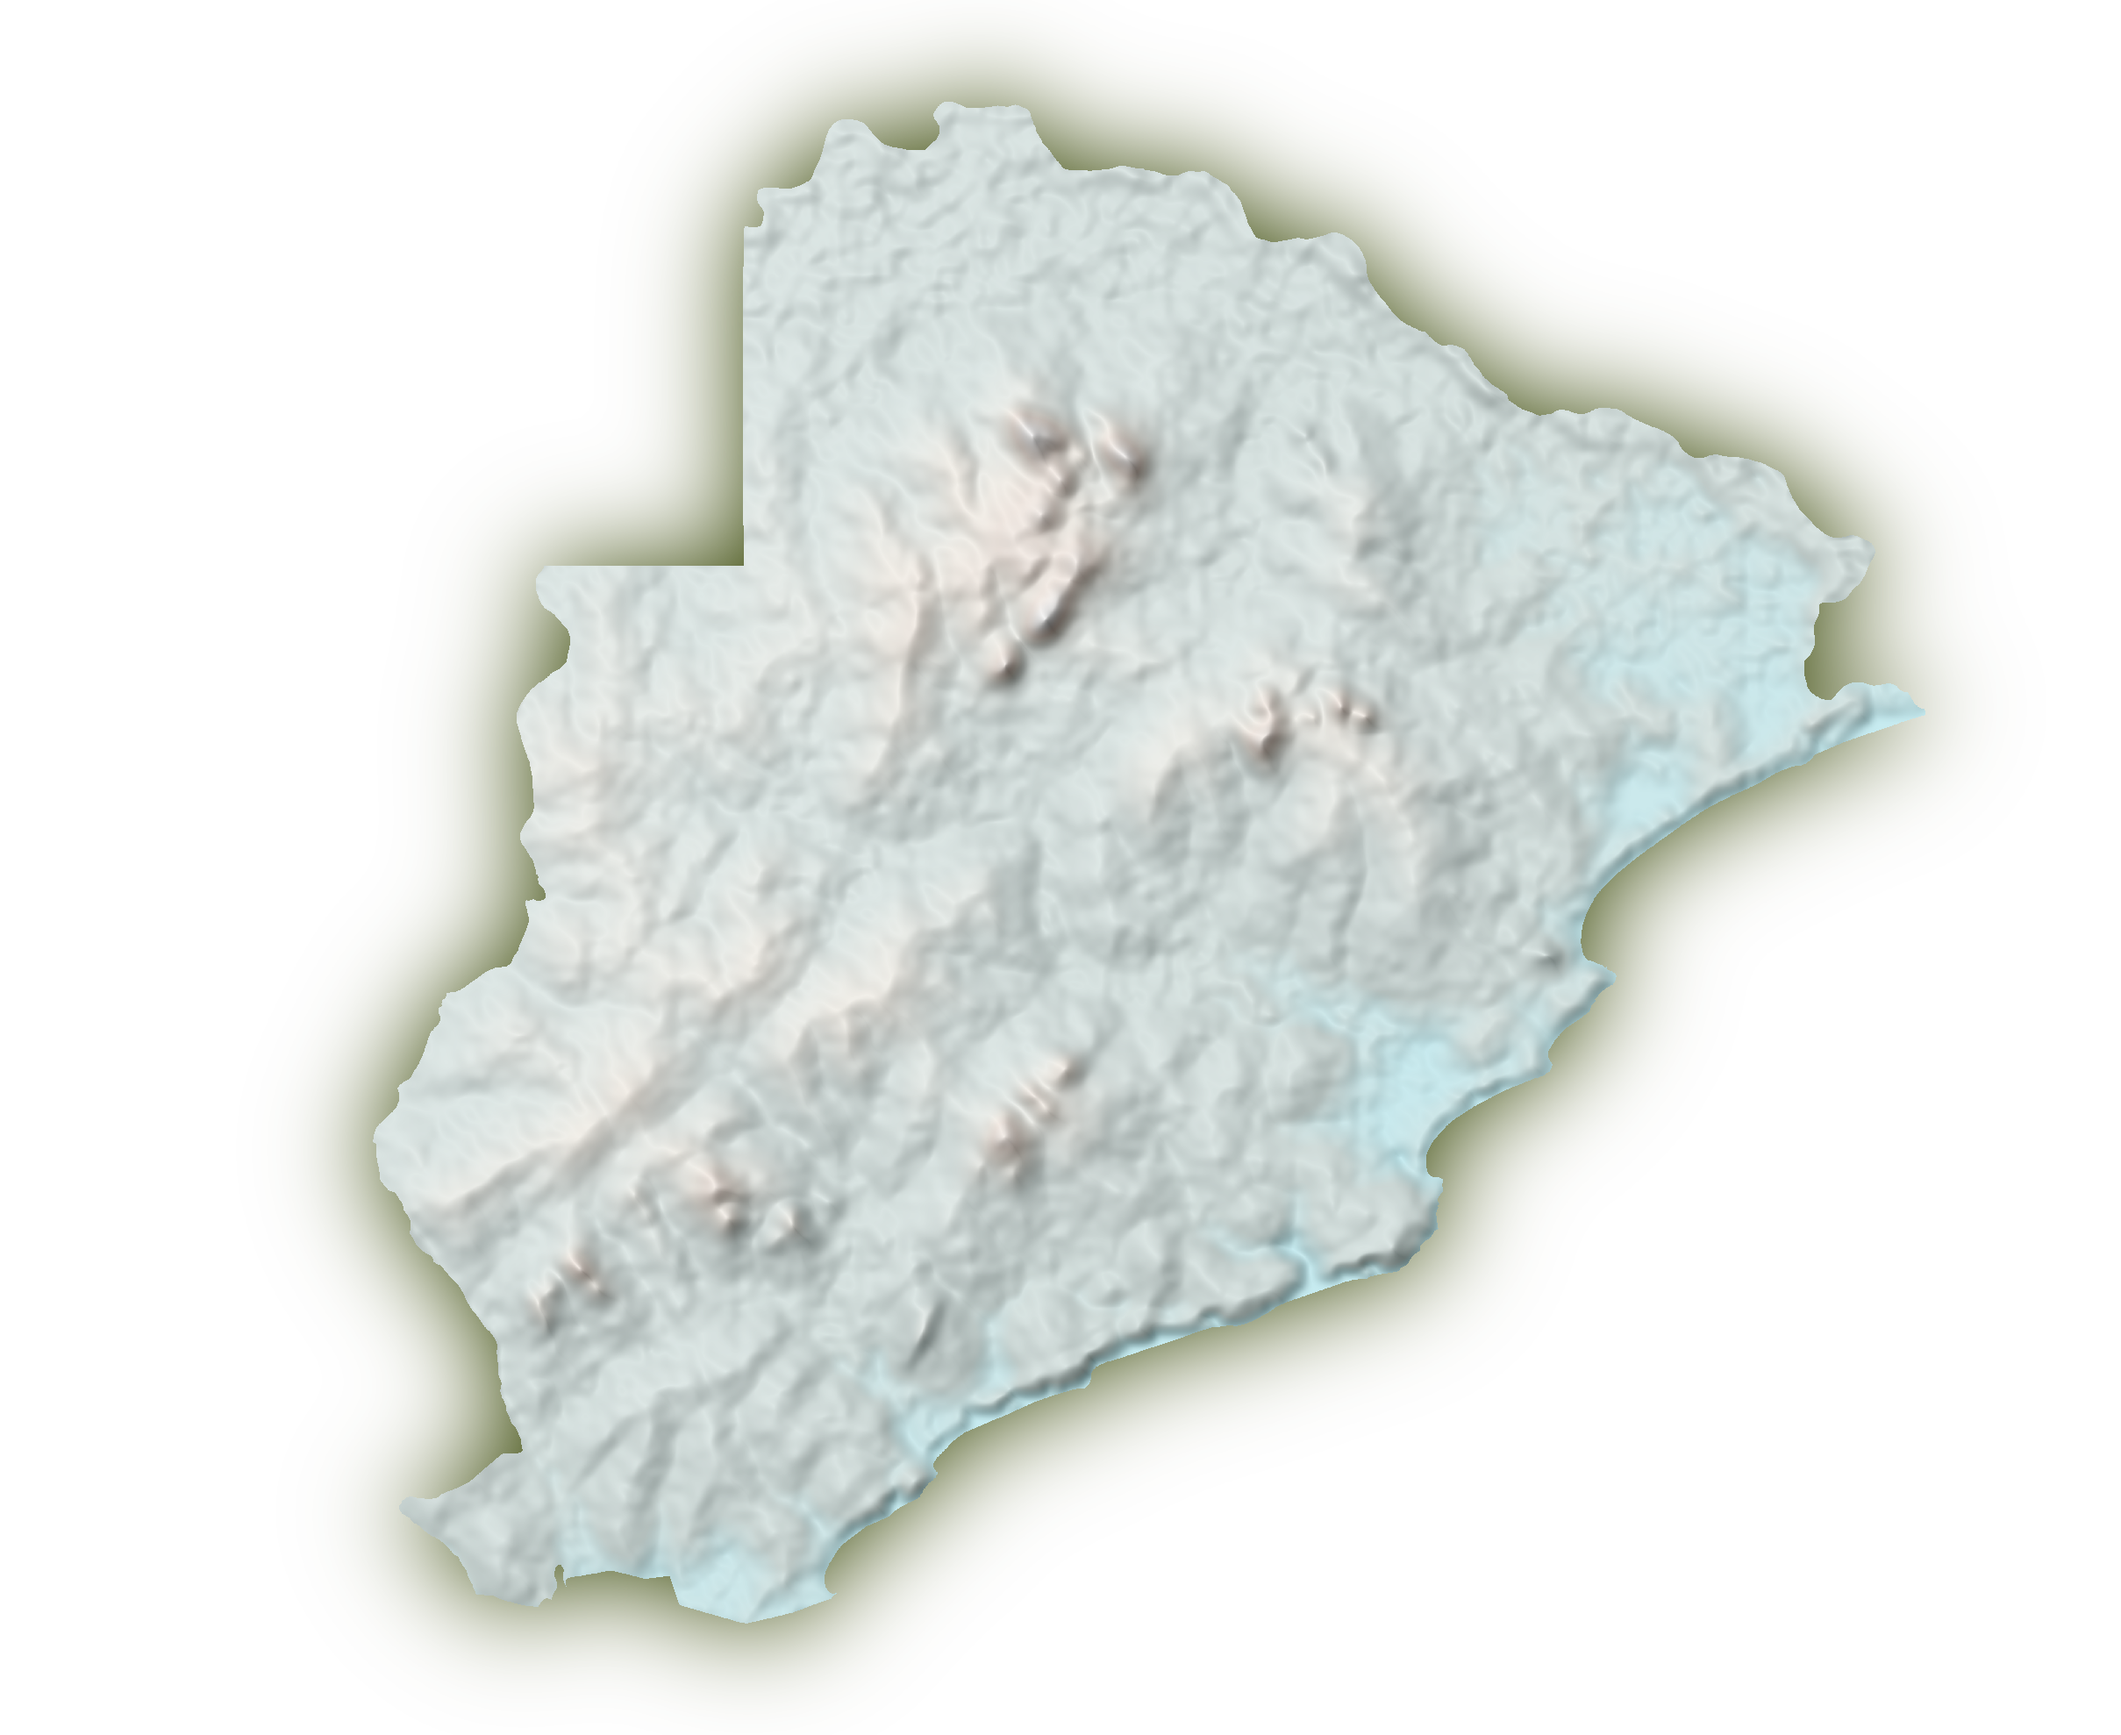
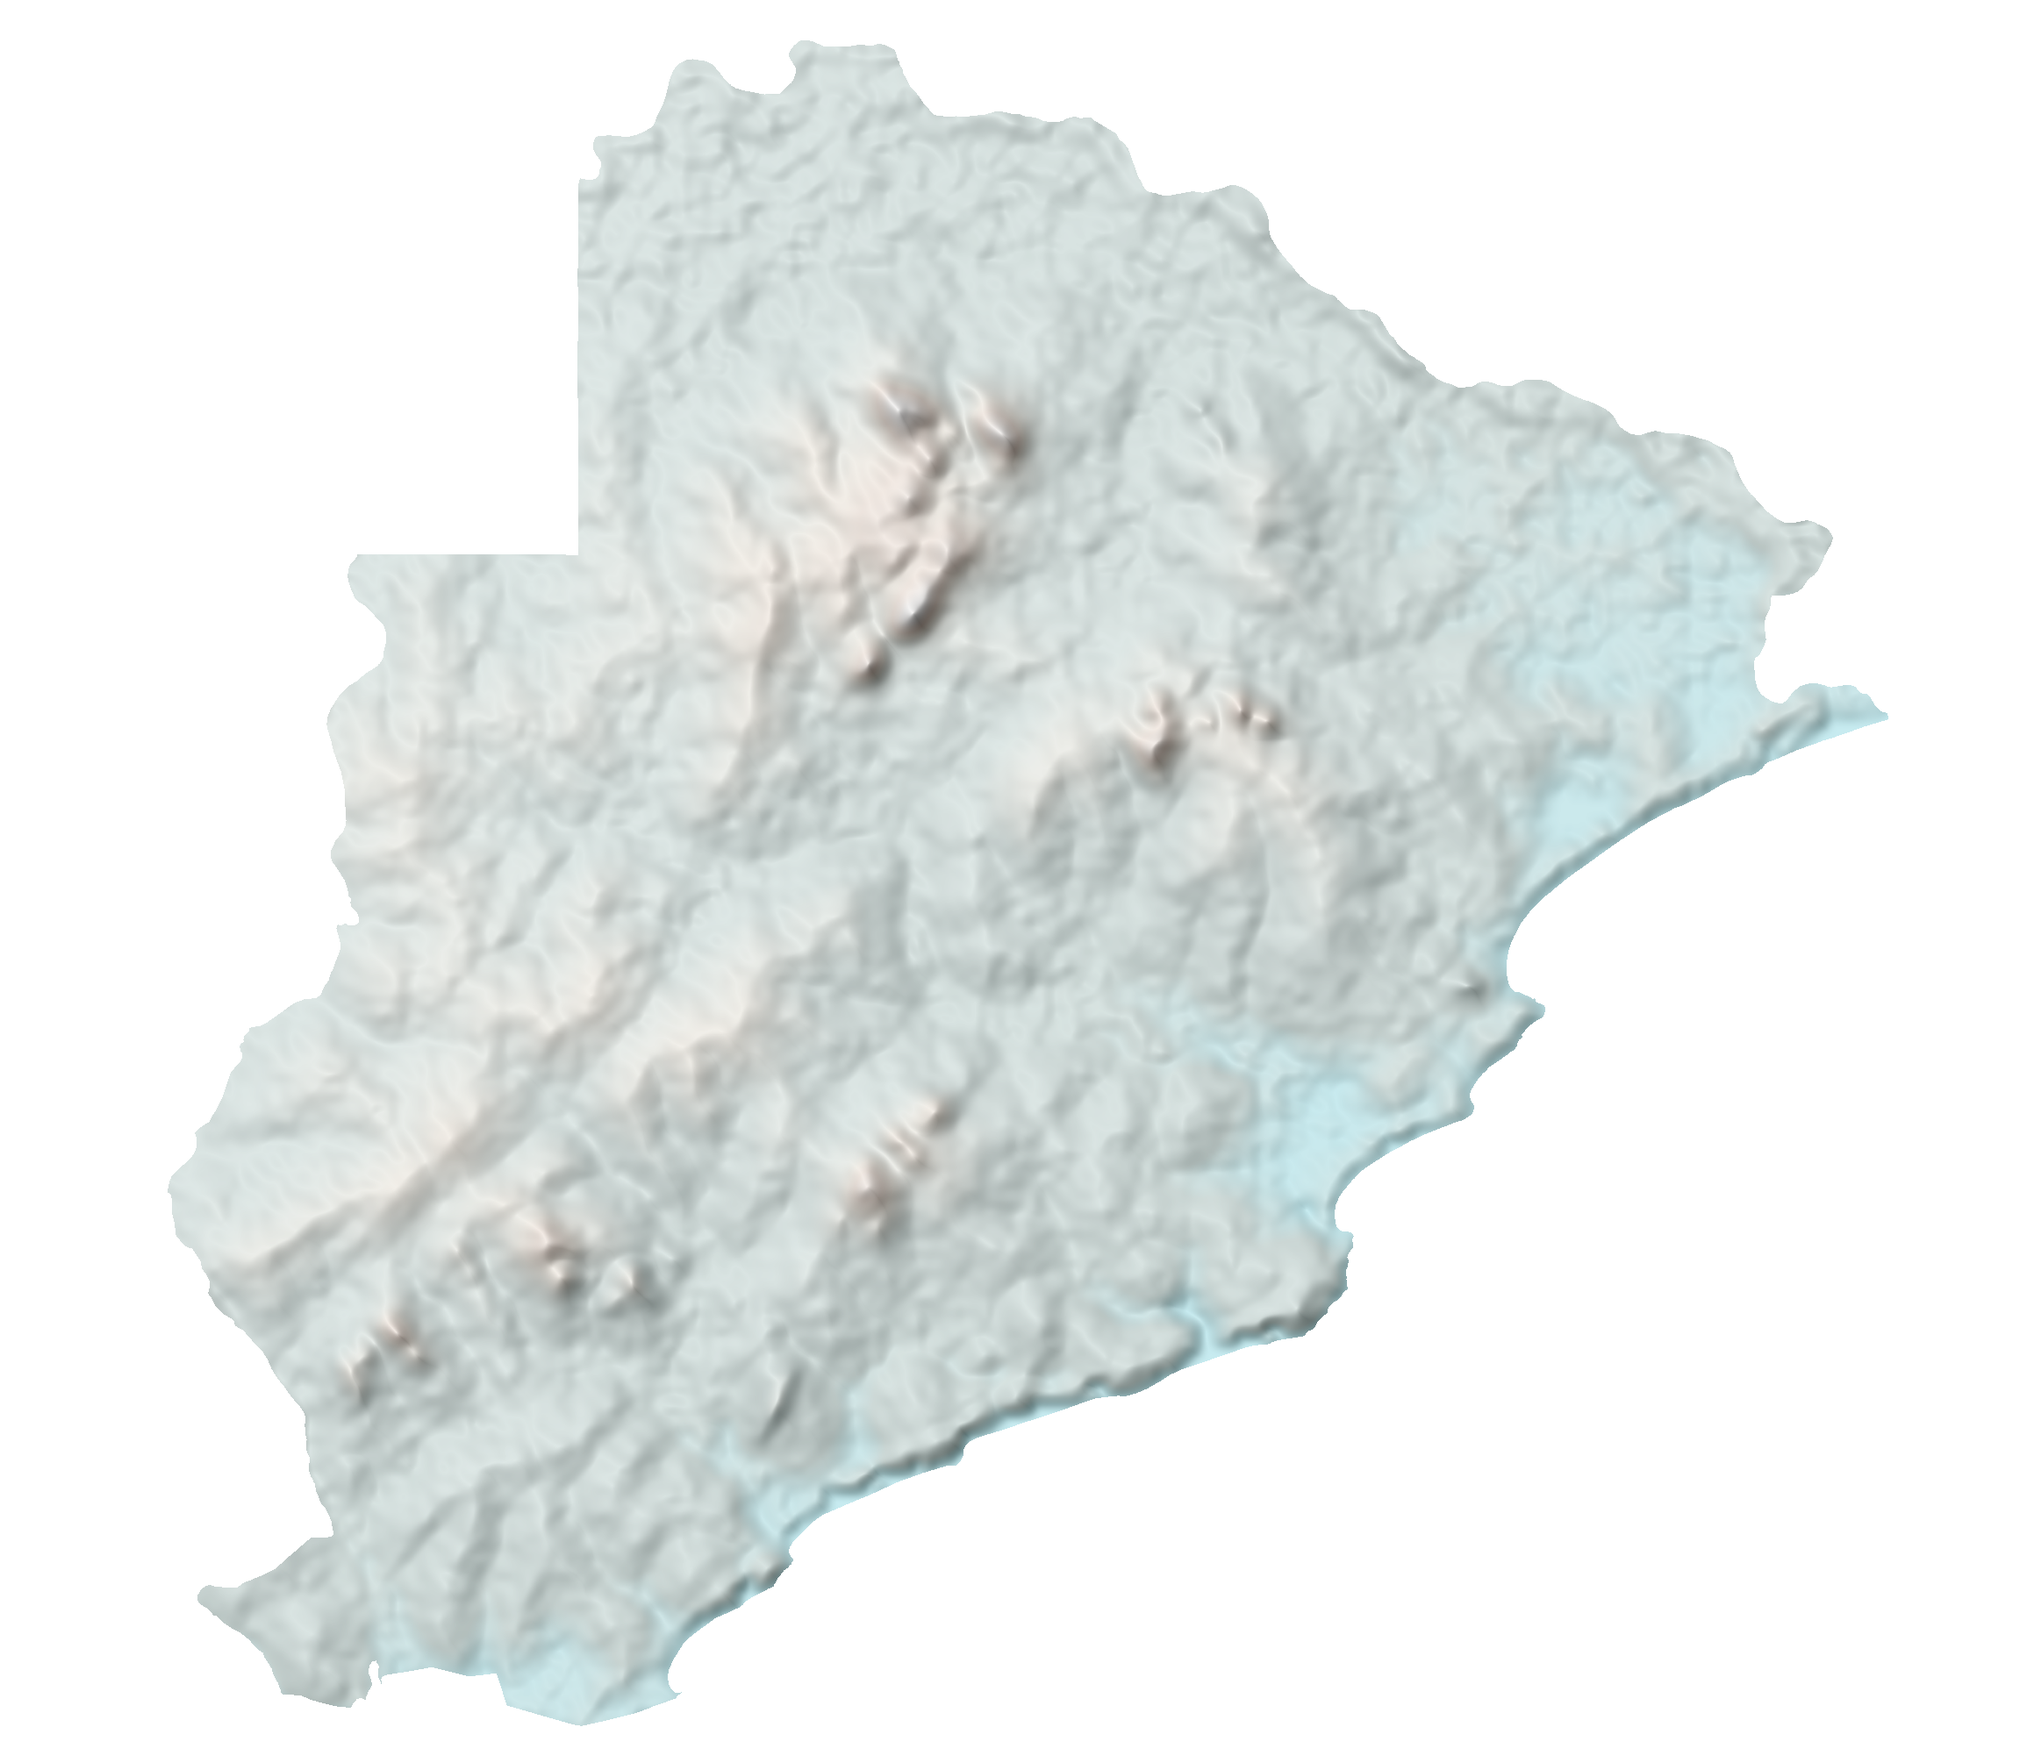
Updating the readme

Changed region(s): [[0.0617, 0.0, 0.9253, 0.9869], [0.6169, 0.2467, 0.6785, 0.3392], [0.7094, 0.3392, 0.7402, 0.3701]]

diff --git a/README.md b/README.md
@@ -67,6 +67,8 @@ Whatever is here can be used without any restrictions but attributions will be a
             cmap_for_hill_shade@{ shape: doc, label: "Colour map (-cmap.txt)" }
             generate_shaded_relief@{ shape: rect, label: "Generate shaded relief" }
             hill_shade_raster@{ shape: doc, label: "Hill-shade (.tiff)" }
+            generate_park_outer_glow@{ shape: rect, label: "Generate park's outer glow" }
+            outer_glow_raster@{ shape: doc, label: "Outer glow (.tiff)" }
             define_qgis_layers@{ shape: trap-t, label: "Define QGIS layers" }
             qgis_layer_definitions@{ shape: doc, label: "Layers (.csv)" }
             create_map_symbols@{ shape: trap-t, label: "Create SVG \n map symbols" }
@@ -100,7 +102,9 @@ Whatever is here can be used without any restrictions but attributions will be a
             define_cmap_for_hill_shade --> generate_shaded_relief
             elevation_data --> generate_shaded_relief
             generate_shaded_relief --> hill_shade_raster
-            generate_shaded_relief --> define_qgis_layers
+            generate_shaded_relief --> generate_park_outer_glow
+            generate_park_outer_glow --> outer_glow_raster
+            generate_park_outer_glow --> define_qgis_layers
             define_qgis_layers --> qgis_layer_definitions            
             define_qgis_layers --> create_map_symbols
             create_map_symbols --> map_symbols
@@ -115,50 +119,51 @@ Whatever is here can be used without any restrictions but attributions will be a
 1. Clone the repo
 2. Give shell scripts the execution permission
    ```
-   $ chmod +x ./script/init-*.sh
-   $ chmod +x ./script/get-bbox-for-polygon.sh
-   $ chmod +x ./script/render-park.sh
-   $ chmod +x ./script/generate-qr.sh
+   $ chmod +x ./script/*.sh
    ```
 3. Create the config - `cp ./conf/sl-np-mapping-template.yaml ./conf/sl-np-mapping.yaml`
    You can use `{$HOME}` and `{$base_dir}` can be used and variables in the config and they will be replaced by the environment variables `$HOME` and `$base_dir` respectively. The configurable items are self descriptive.
+
 4. Create the park polygon in JOSM and save it as a .poly file. The name of the file is quite important as you need to pass that to subsequent scripts.
 
    ![alt text](image/park_polygon.png)
 
    Make sure to change the second line, which is the polygon name to the park name. Typically the original value there would be `1`.
 
-5. `./script/init-data.sh <park_name> $(pwd)` - Acquire and filter OSM data for the given parkThis produces following outputs.
-   - `$base_dir/var/sri-lanka-latest.osm.pbf`
-   - `$base_dir/var/sri-lanka.geojson`
-   - `$base_dir/var/$np.geojson`
-   - `$base_dir/var/$np-boundary-polygon.geojson`
-   - `$base_dir/var/sl-coastline.osm`
-   - `$base_dir/var/sl-admin.osm`
-   - `$base_dir/var/$np-cleansed-merged.osm`
-   - `$base_dir/var/$np-srtm.tiff`
+5. `./script/init-data.sh <park_name> $(pwd)` - Acquire and filter OSM data for the given parkThis produces following output files.
+    - `$base_dir/var/$np-background.osm`
+    - `$base_dir/var/$np-boundary-polygon.geojson`
+    - `$base_dir/var/$np-boundary-polygon.osm`
+    - `$base_dir/var/$np-cleansed.osm`
+    - `$base_dir/var/$np.geojson`
+    - `$base_dir/var/$np-srtm.tiff`
+    - `$base_dir/var/$np-surrounding-forests.osm`
+    - `$base_dir/var/$np-surrounding-protected-areas.osm`
+    - `$base_dir/var/sl-admin.osm`
+    - `$base_dir/var/sl-coastline.osm`
+    - `$base_dir/var/sl-contour.dbf`
+    - `$base_dir/var/sl-contour.prj`
+    - `$base_dir/var/sl-contour.shp`
+    - `$base_dir/var/sl-contour.shx`
+    - `$base_dir/var/sri-lanka.geojson`
+    - `$base_dir/var/sri-lanka-latest.osm.pbf`
 
-6. `./script/init-db.sh yb1 $(pwd)` - Insert all the data collected to a SpatiaLite DB. SpatiaLite makes it possible to store the data without having to host a database server and also provides decent support for spatial data handling. This produces the file `$base_dir/db/$np.db`. During this process the vector data will be cleansed, massaged and enriched even more. 
+6. `./script/init-db.sh yb1 $(pwd)` - Insert all the data collected to a SpatiaLite DB. SpatiaLite makes it possible to store the data without having to host a database server and also provides decent support for spatial data handling. This produces the file `$base_dir/db/$np.db`. During this process the vector data will be cleansed, massaged and enriched even more. The SQL script for the latter is in the file `$base_dir/script/enrich-and-add-geometry.sql`. This script will produce following tables in the DB.
+
+    <img src="image/spatialite_tables.png" alt="Description" style="width: 50%; height: auto;">
 
 7. Define the [colour map](https://gdal.org/en/stable/programs/gdaldem.html) for the shaded relief for the park and place it in `$base_dir\dem`. The park name should be prefixed.
 
-8. `./script/init-shaded-relief.sh yb1 $(pwd)` - This generates the hill-shade background raster in GeoTIFF format with some effects for eye-candy.
+8. `./script/init-shaded-relief.sh yb1 $(pwd)` - This generates the hill-shade background raster and the park boundary glow in GeoTIFF format. The latter is for eye-candy and can be turned off in the QGIS project. The output files are,
+    - `$base_dir/var/$np-hill-shade.tiff`
+    - `$base_dir/var/$np-boundary-glow.tiff`
 
     ![alt text](image/hill_shade_raster.png)
+    ![alt text](image/park_glow_raster.png)
 
-9. Define QGIS layers along with desired symbology. This is done in the file `$base_dir/qgis/layer/$np-qgis-layers.csv`. Below is the format of the CSV.
+9. Define QGIS layers along with desired symbology. This is done in the file `$base_dir/qgis/layer/$np-qgis-layers.csv`. Below is the format of the CSV. The master template for this can be found in the file [$base/qgis/layer/master-qgis-layers.csv](./qgis/layer/master-qgis-layers.csv).
 
-    |Layer Name|Table|Query (Where clause)|Fill Colour|Stroke Colour|Size(Stroke or Symbol)|Opacity|
-    |---|---|---|---|---|---|---|
-    |terrain|multipolygons|name = '{$np}_terrain' and place = 'island'|#aec3b0|transparent|0.0|0|
-    minor_contour|contours|type = 'minor'|#f2e9e4|transparent|0.125|1
-    river|lines|waterway = 'river'|#007ea7|transparent|1.5|1
-    track|lines|highway = 'track'|#5e503f|transparent|0.5|1
-    bungalow|points|"INSTR(other_tags, '""tourism""=>""chalet""') > 0"|#c8553d||8|1
-    junction|points|"INSTR(other_tags, '""junction""=>""yes""') > 0"|#9d4edd||8|1
-    locality|points|place = 'locality'|#233d4d||6|1
-
-10. Create SVG symbols for POIs in the folder `$base_dir/symbol`. These will be converted to QGIS friendly SVG format in the next step and be placed in the folder `$base_dir/qgis/symbol/$np` for each park. If you use 3rd party SVGs, please make sure to make appropriate attributions. The file name should be as same as the respective QGIS layer name in the CSV file.
+10. Create SVG symbols for POIs in the folder `$base_dir/symbol`. These will be converted to QGIS friendly SVG format in the next step and be placed in the folder `$base_dir/qgis/symbol/$np` for each park. If you use 3rd party SVGs, please make sure to make appropriate attributions. The file name should be as same as the respective QGIS layer ID in the CSV file. You can have park specific symbols by prefixing the file name with the park name.
 
 11. `./script/init-qgis-project.sh yb1 $(pwd)` - This will put everything together and generate a QGIS project that you can start working on
 
